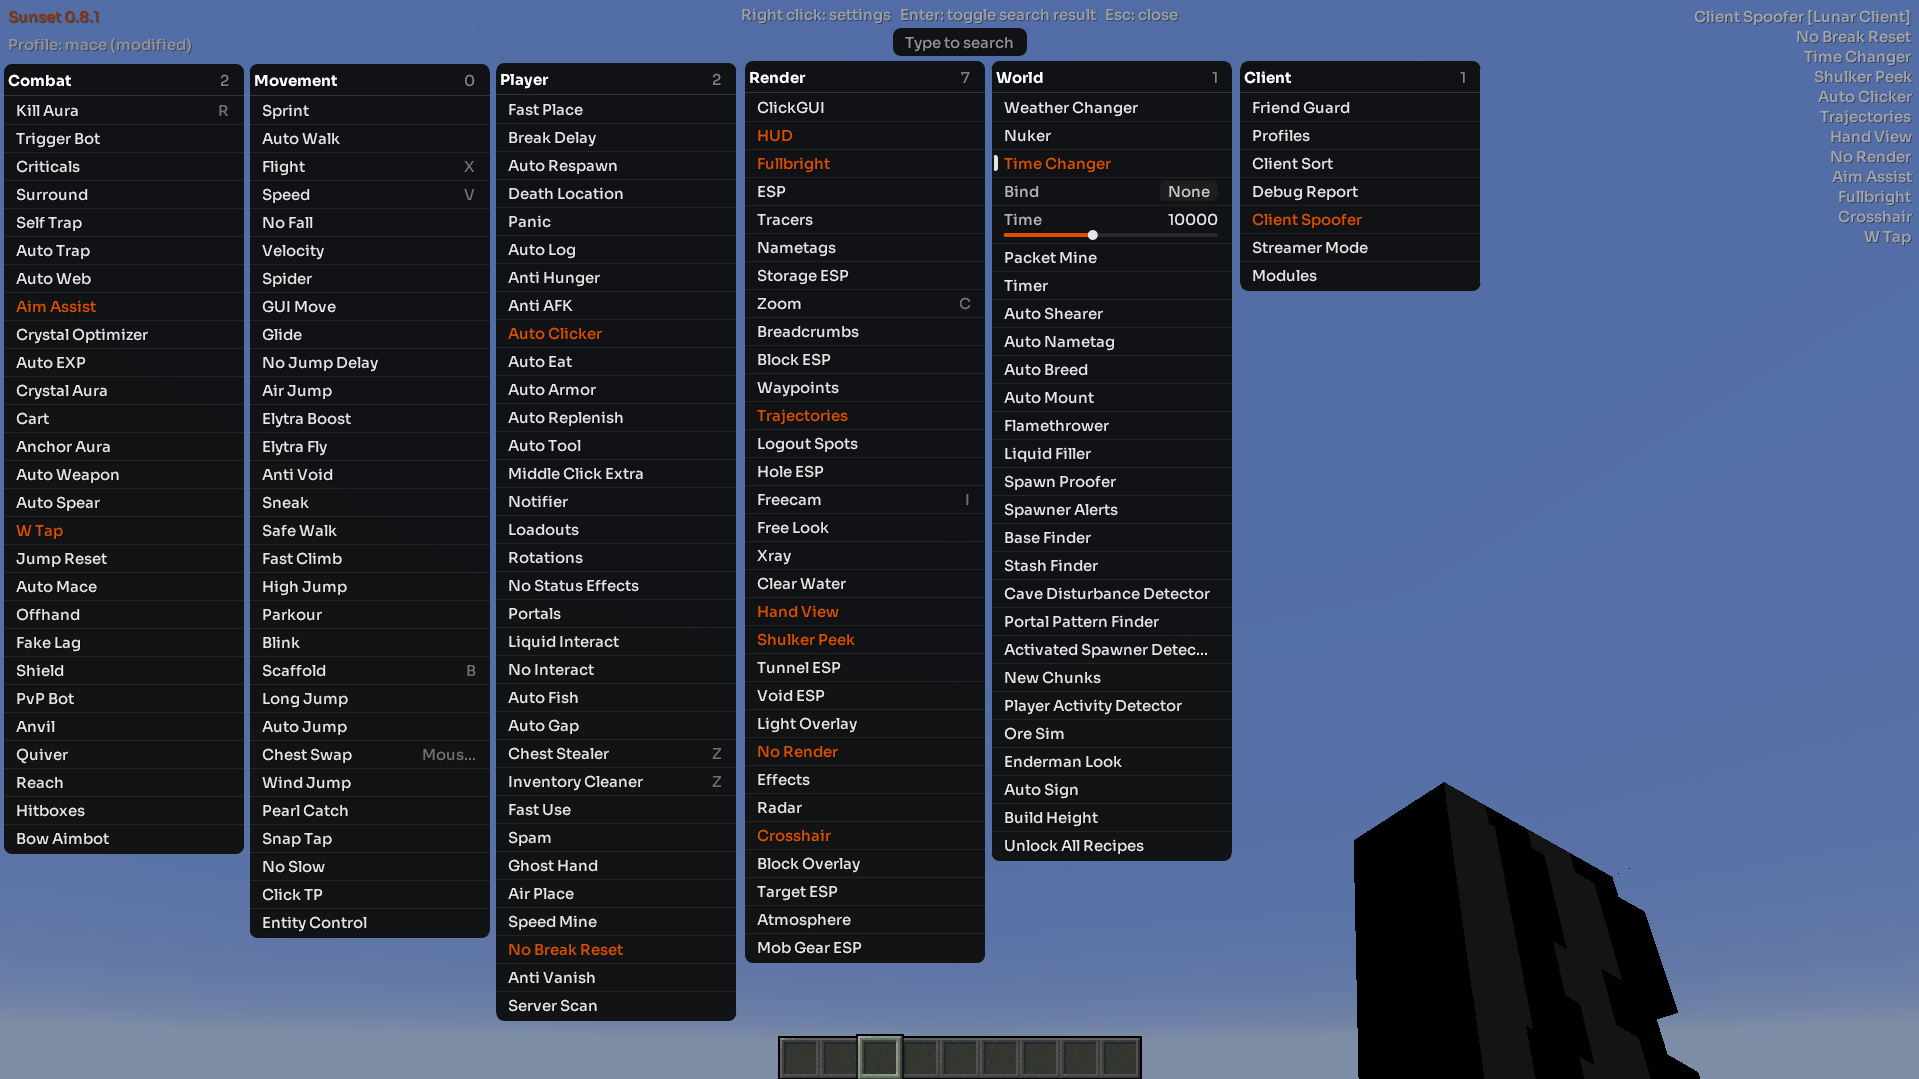
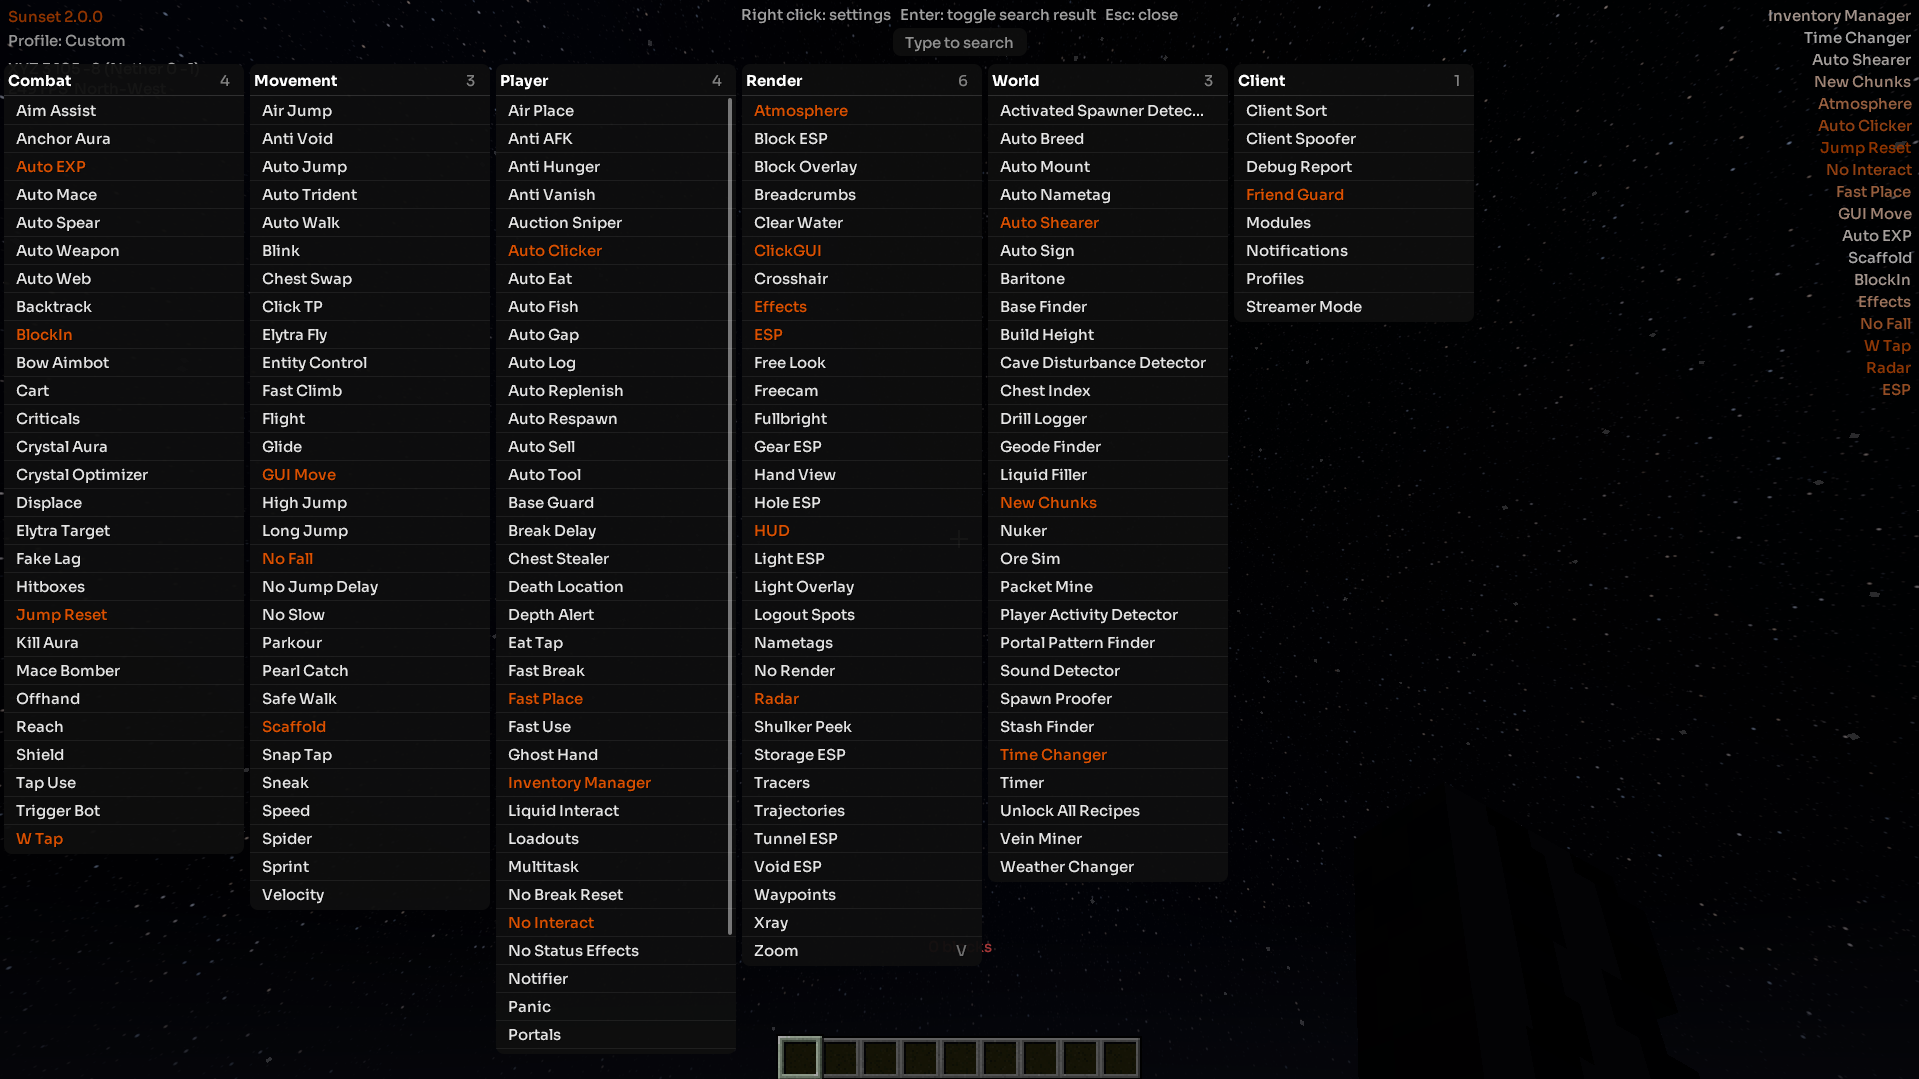
README: dark click-menu shot, full-res launcher Overview shot (2x, rendered on the threadripper)

diff --git a/README.md b/README.md
@@ -465,6 +465,8 @@ Sunset. The `.hnmod` line (0.8.x/1.x fixes) is the `hnmod` branch.
 
 ### Sunset launcher (2.0, not released yet)
 
+![The Sunset launcher's Overview page: Play, Game folder, Logs and repair, the 2.0.0 changes and the installation](docs/images/launcher.png)
+
 `launcher/` is a GPUI app that installs the signed prebuilt client (`client/scripts/build-prebuilt.sh`) and plays it.
 It only offers the Horizon Nightly that build pins, never a newer one. The stock `horizon-launcher` CLI does the
 sign-in, the Nightly and Play. The Sunset launcher downloads it (its SHA-256 is in the signed manifest) and runs it as a
